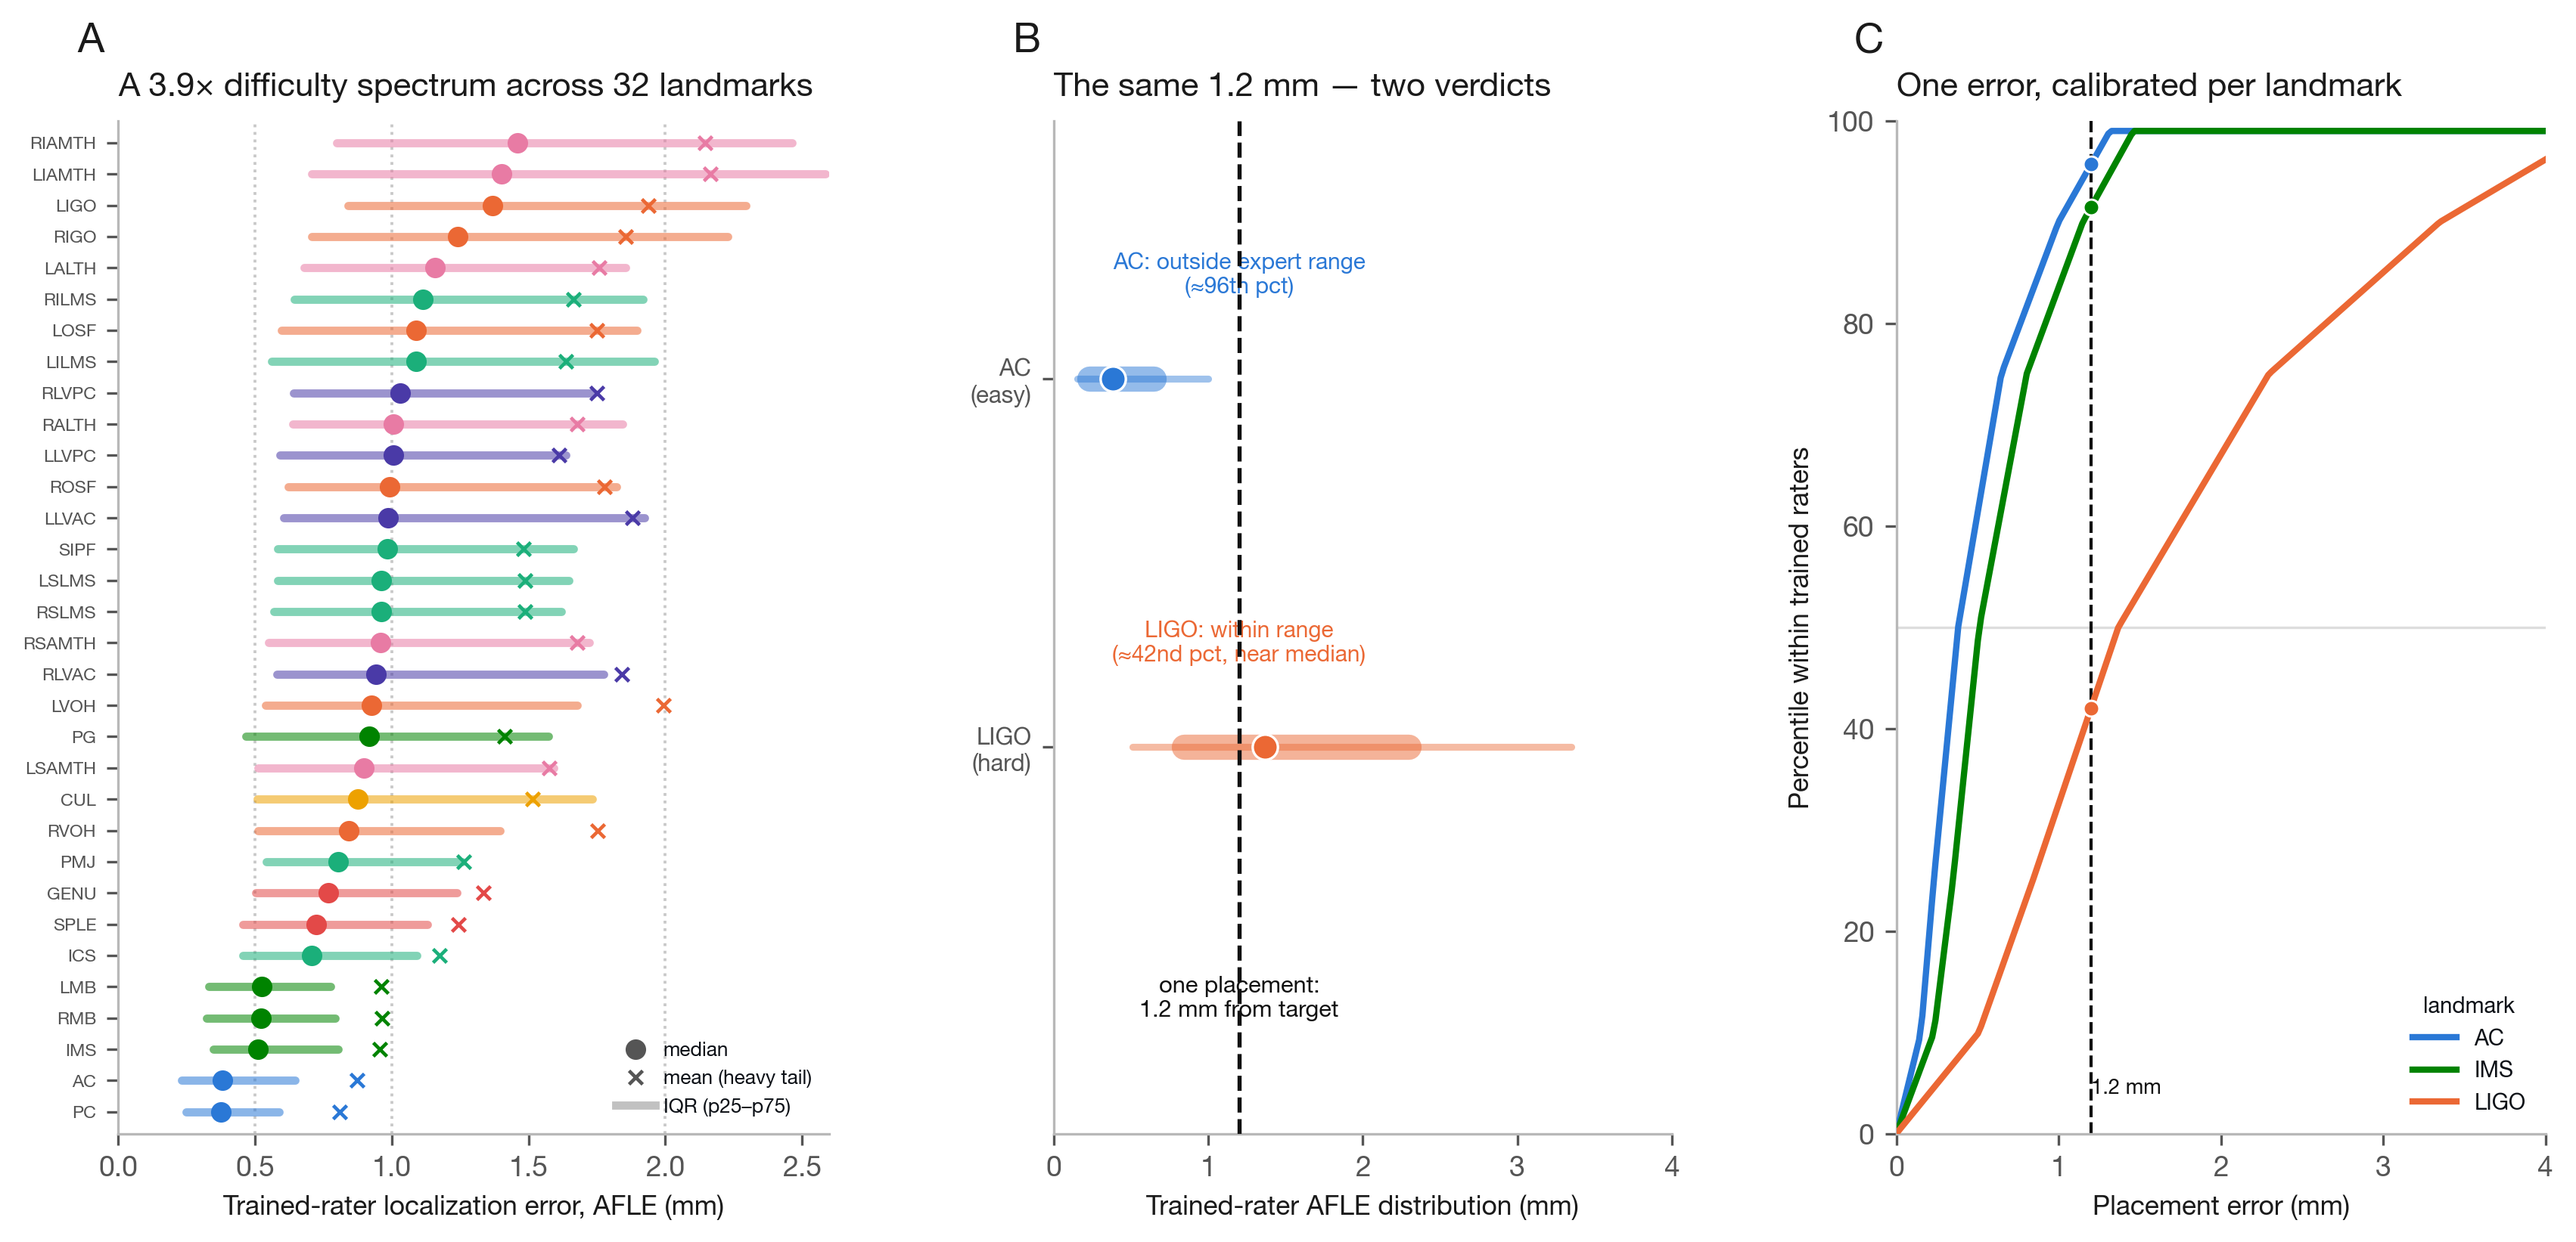
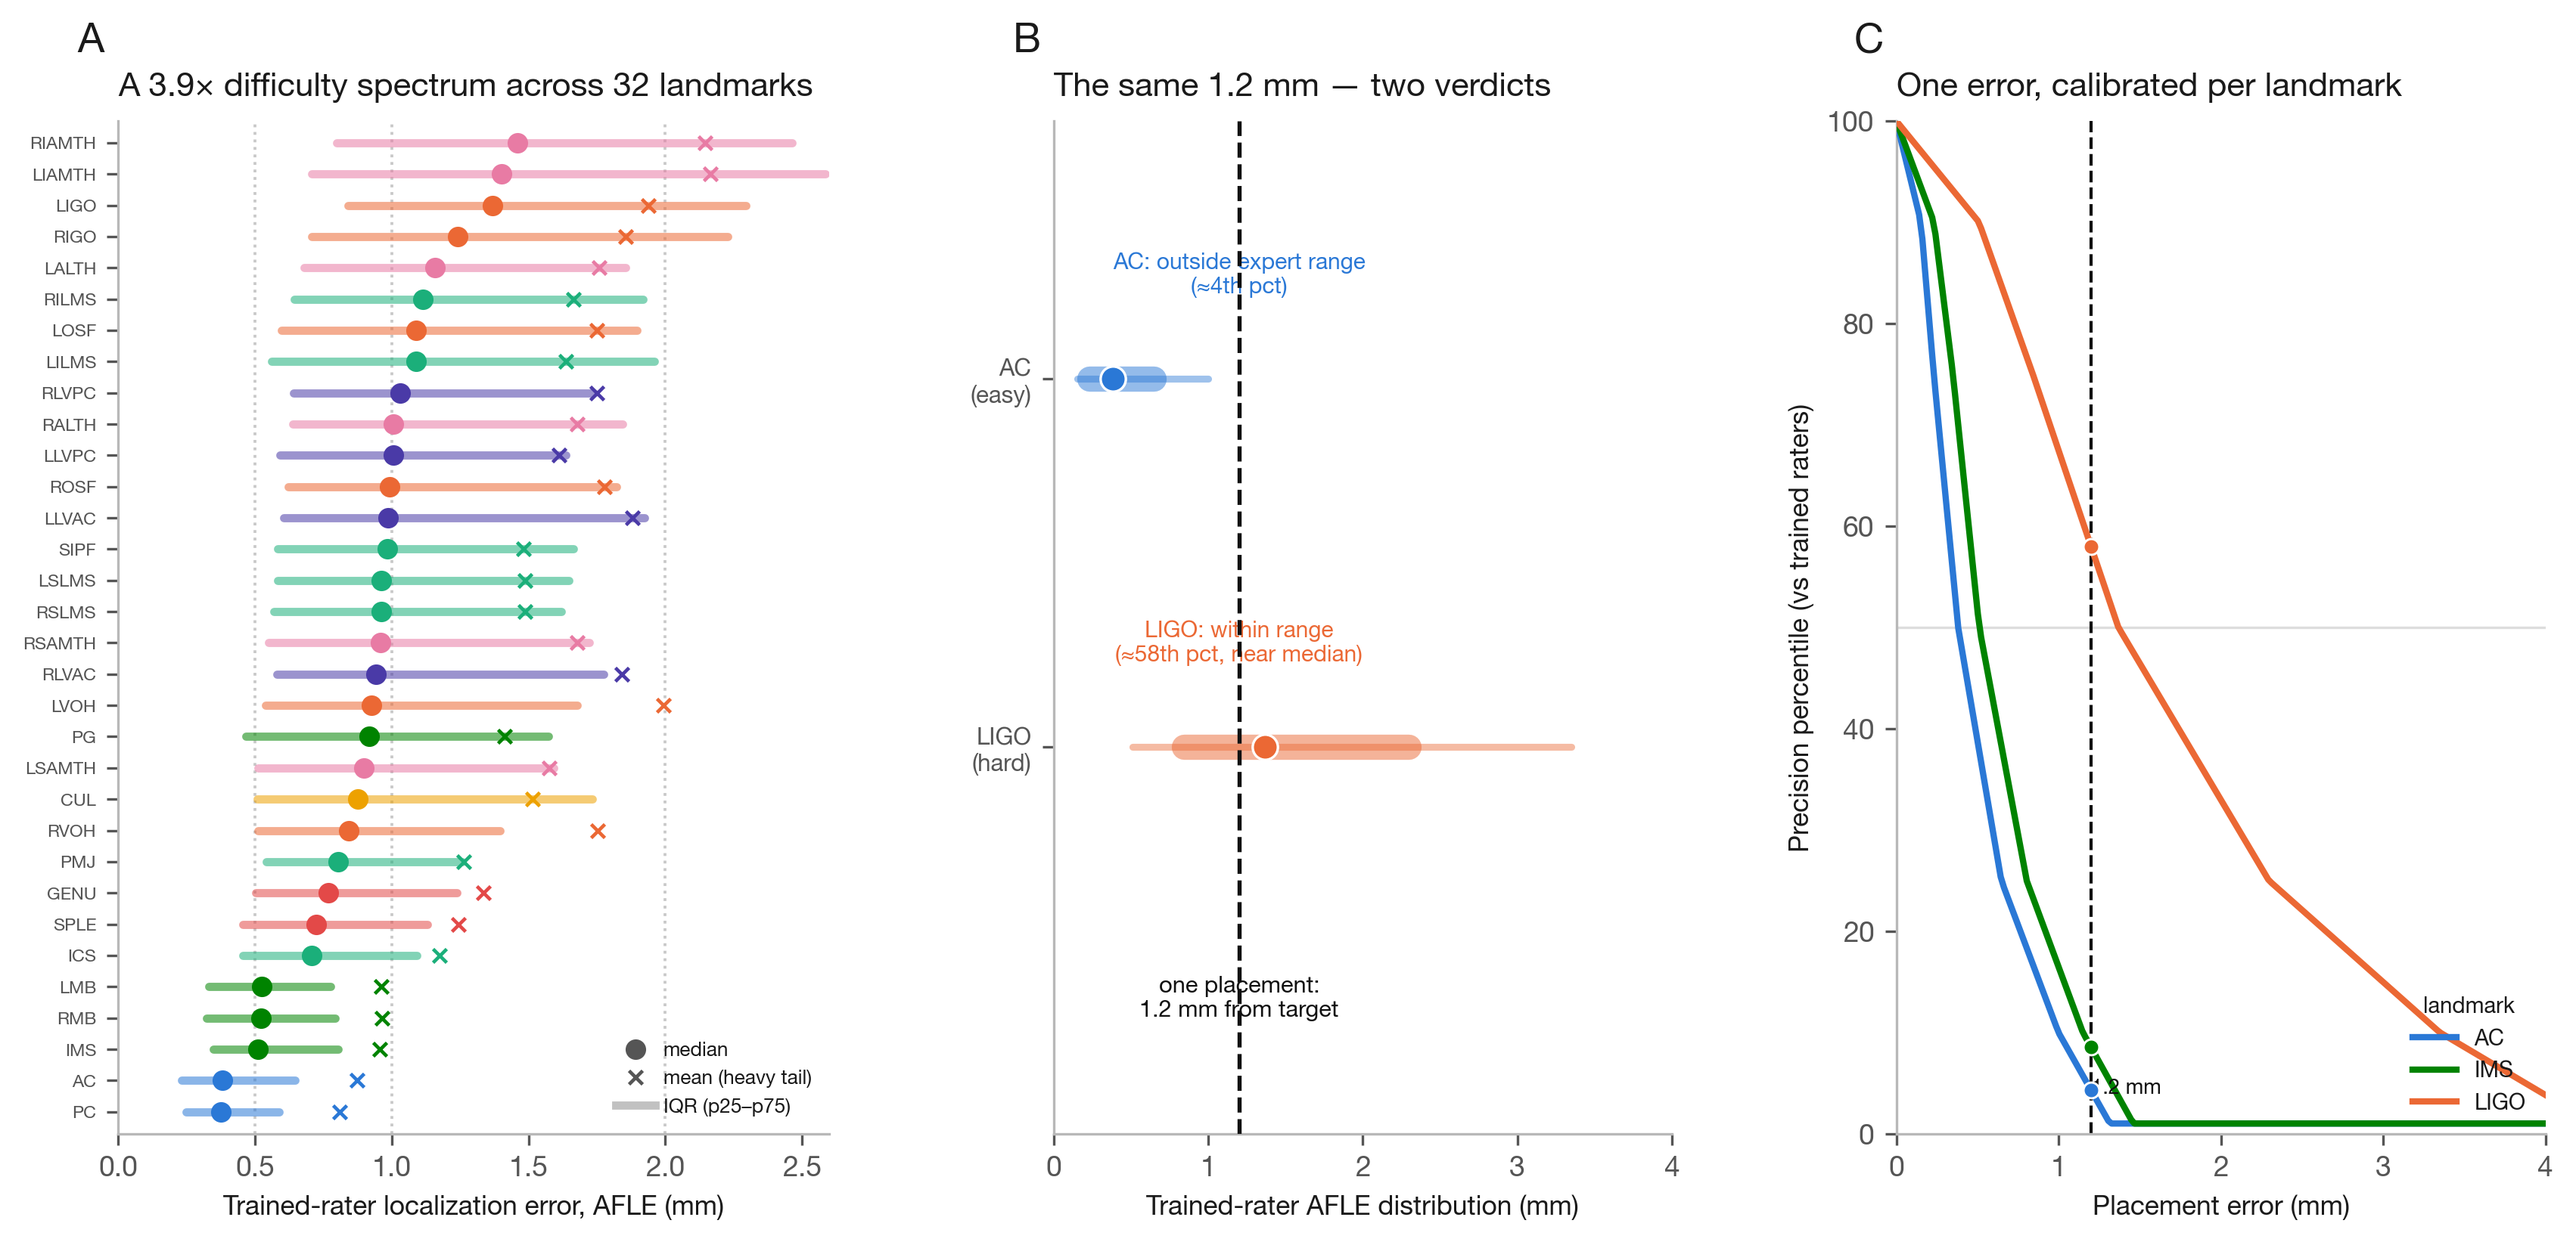
Figure 5: show precision percentile (higher = better) (#270)
Display the precision percentile (percent of trained raters a placement is at
least as precise as) in the 'two verdicts' panel and the calibration panel,
matching the platform's convention: panel C's curves now descend with error
and its axis is relabelled. Verdict wording still derives from the underlying
error rank.

diff --git a/scripts/make_figures.py b/scripts/make_figures.py
@@ -418,8 +418,8 @@ def fig5_difficulty():
             markeredgewidth=0.8,
         )
         xs, ys = _pctile_curve(s)
-        pct = float(np.interp(probe, xs, ys))
-        p = round(pct)
+        pct = float(np.interp(probe, xs, ys))  # error rank (drives the verdict)
+        p = round(100 - pct)                    # precision pct shown (higher = better)
         suf = ("th" if 11 <= p % 100 <= 13
                else {1: "st", 2: "nd", 3: "rd"}.get(p % 10, "th"))
         verdict = (
@@ -460,7 +460,7 @@ def fig5_difficulty():
     for a, _ in curves:
         s = rel[a]
         xs, ys = _pctile_curve(s)
-        yy = np.interp(xx, xs, ys)
+        yy = 100 - np.interp(xx, xs, ys)  # precision percentile (higher = better)
         axC.plot(
             xx, yy, color=REGION_COLORS[ABBR2REG[a]], lw=2.0, label=a, zorder=3
         )
@@ -469,7 +469,7 @@ def fig5_difficulty():
         xs, ys = _pctile_curve(rel[a])
         axC.plot(
             1.2,
-            float(np.interp(1.2, xs, ys)),
+            100 - float(np.interp(1.2, xs, ys)),
             "o",
             color=REGION_COLORS[ABBR2REG[a]],
             ms=5,
@@ -481,7 +481,7 @@ def fig5_difficulty():
     axC.set_xlim(0, 4)
     axC.set_ylim(0, 100)
     axC.set_xlabel("Placement error (mm)", fontsize=8.5)
-    axC.set_ylabel("Percentile within trained raters", fontsize=8.5)
+    axC.set_ylabel("Precision percentile (vs trained raters)", fontsize=8.5)
     axC.legend(
         fontsize=7,
         loc="lower right",
